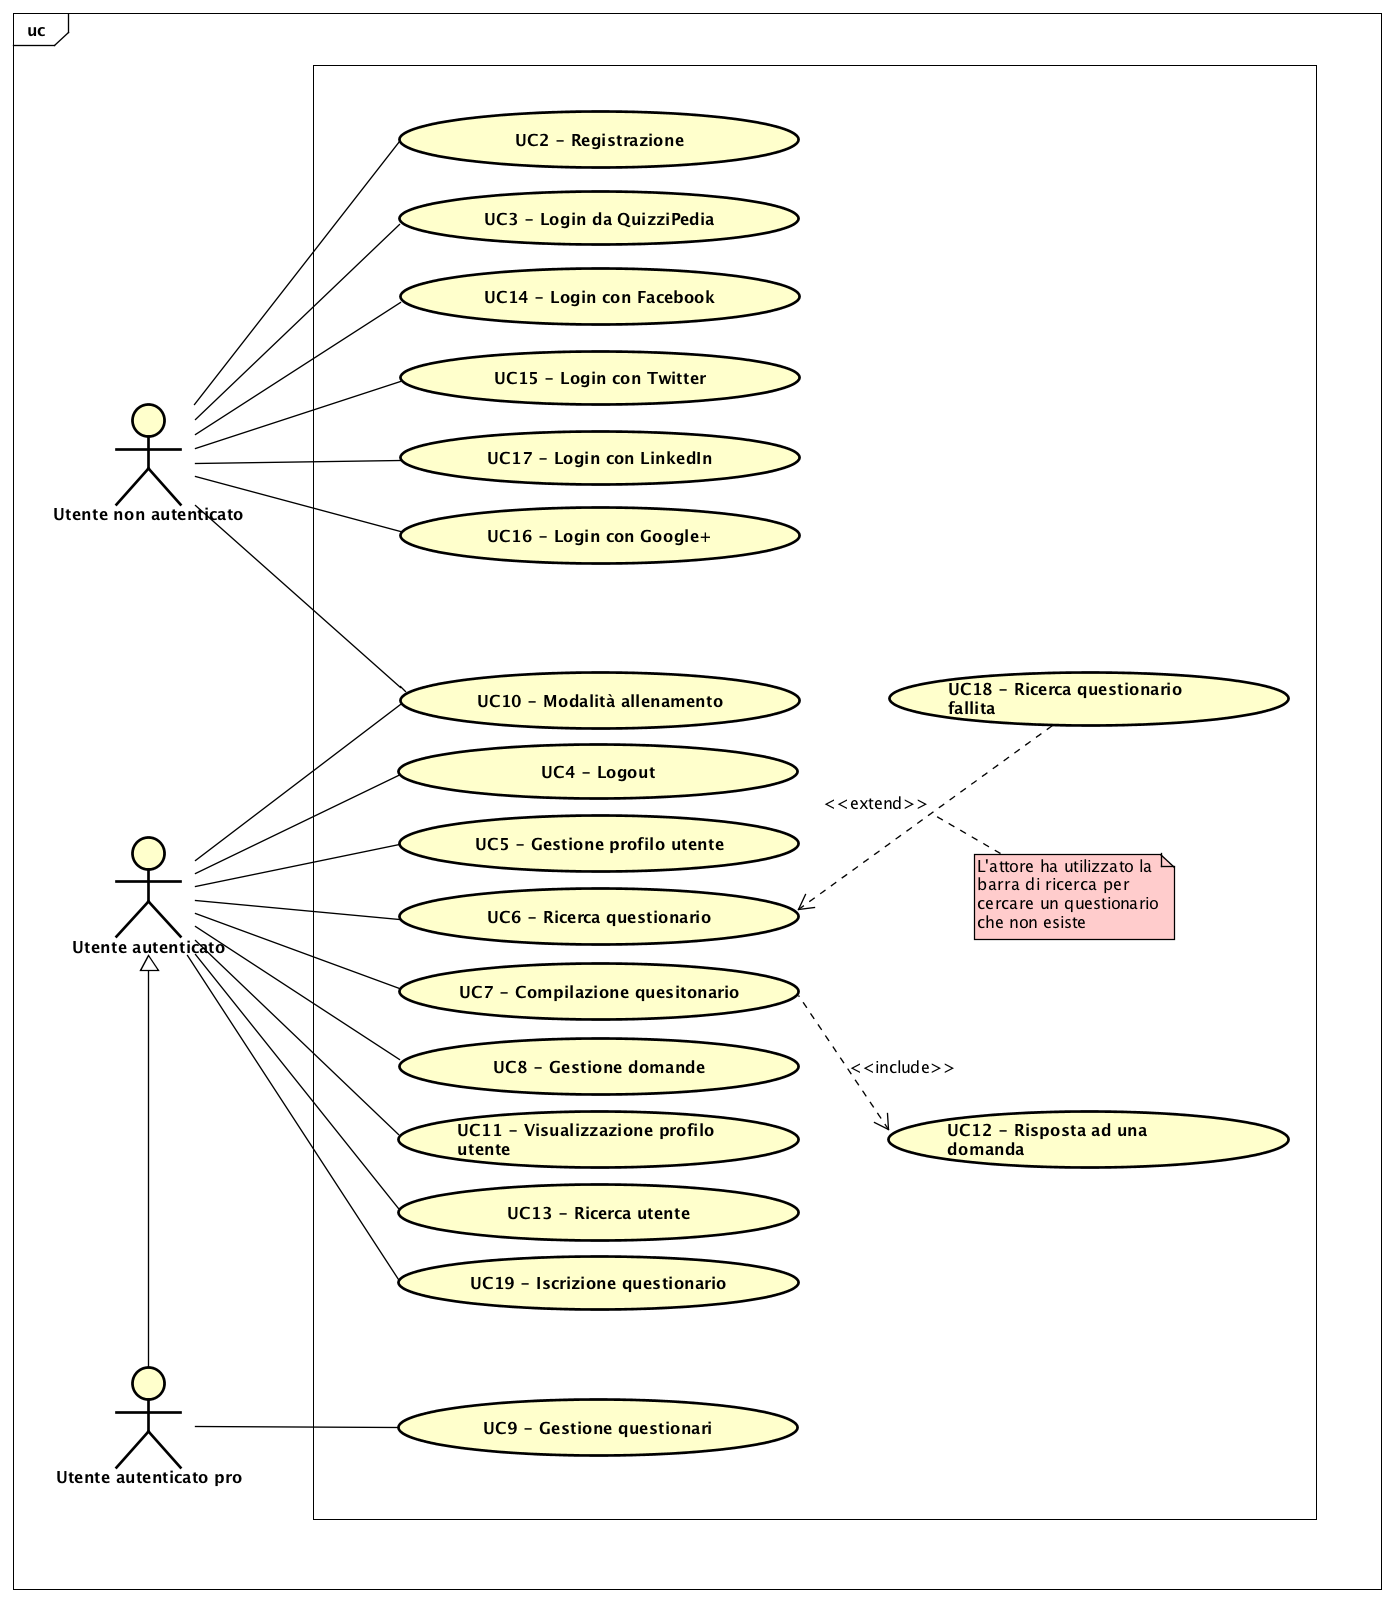
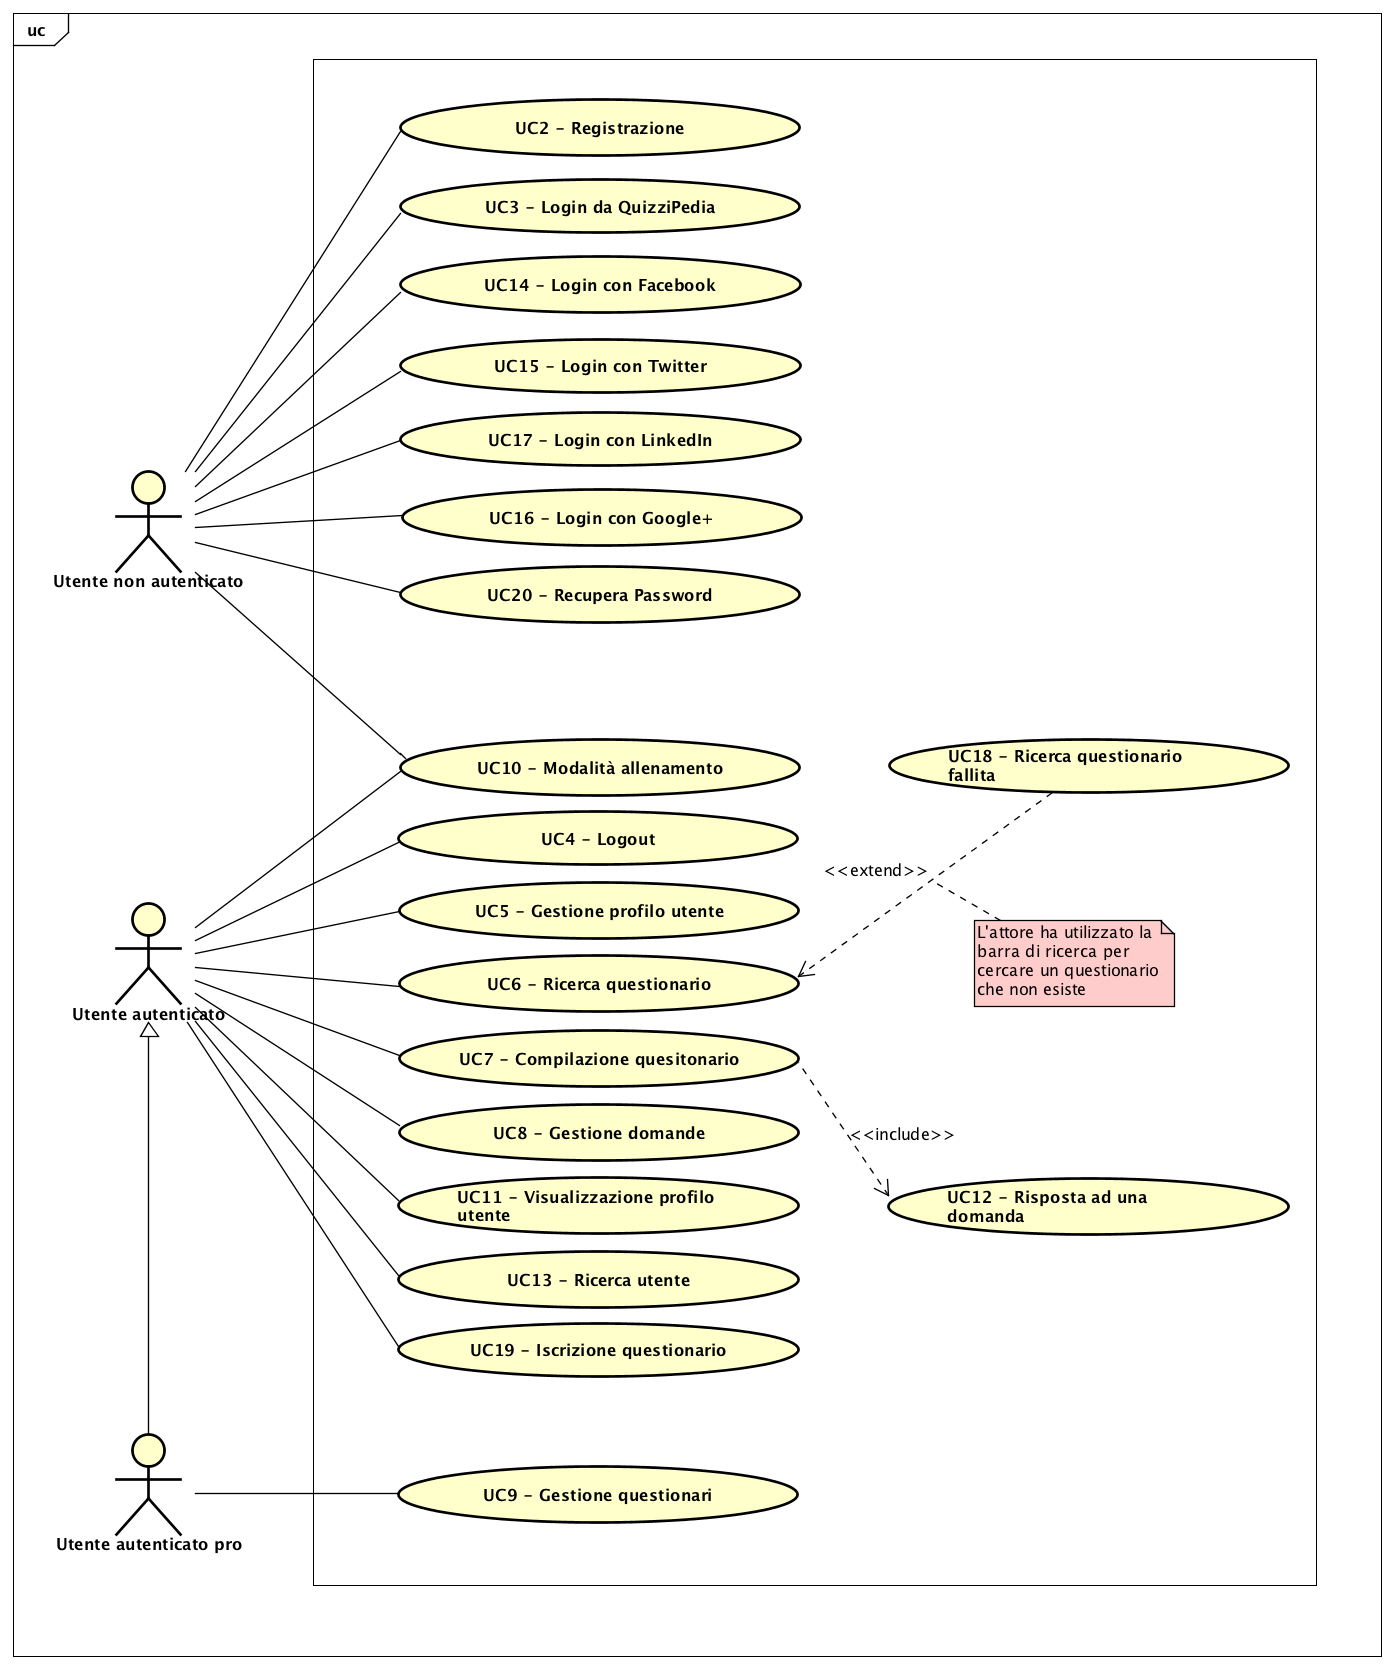
Aggiornato UC1 e UC20 con recupera password

diff --git a/RR/AnalisiDeiRequisiti/sezioni/CasiD'uso/CasoD'usoUC20.tex b/RR/AnalisiDeiRequisiti/sezioni/CasiD'uso/CasoD'usoUC20.tex
@@ -4,7 +4,7 @@
 \begin{figure}
 	\centering
 	\includegraphics[scale=0.48]{UML/UC20.png}
-	\caption{UC3: Recupera password}
+	\caption{UC20: Recupera password}
 \end{figure}
 \FloatBarrier
 \begin{itemize}
